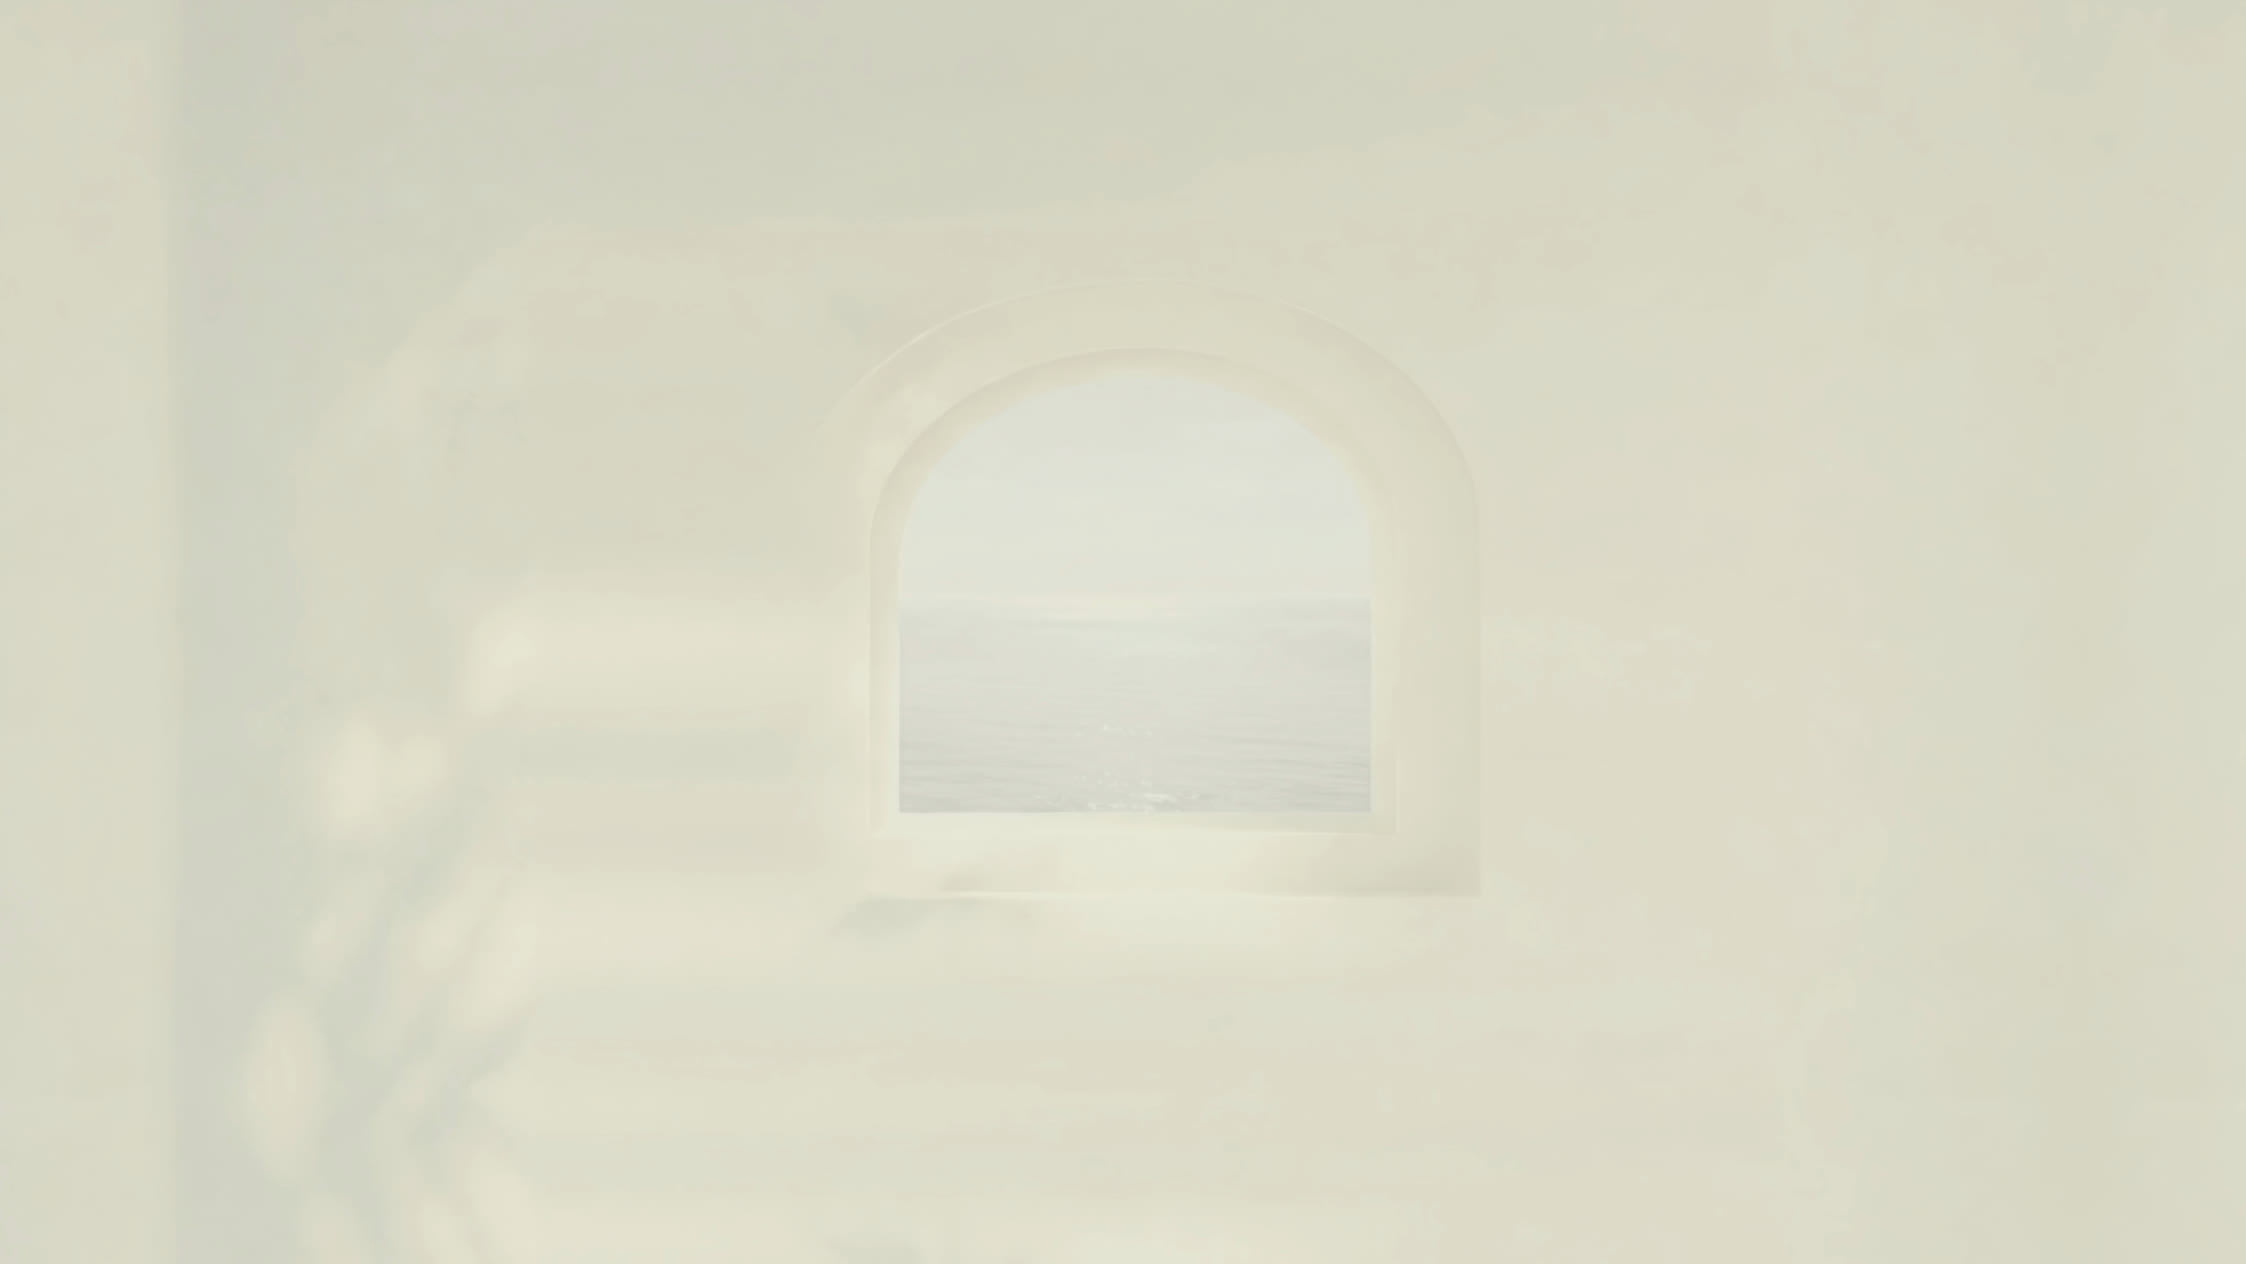
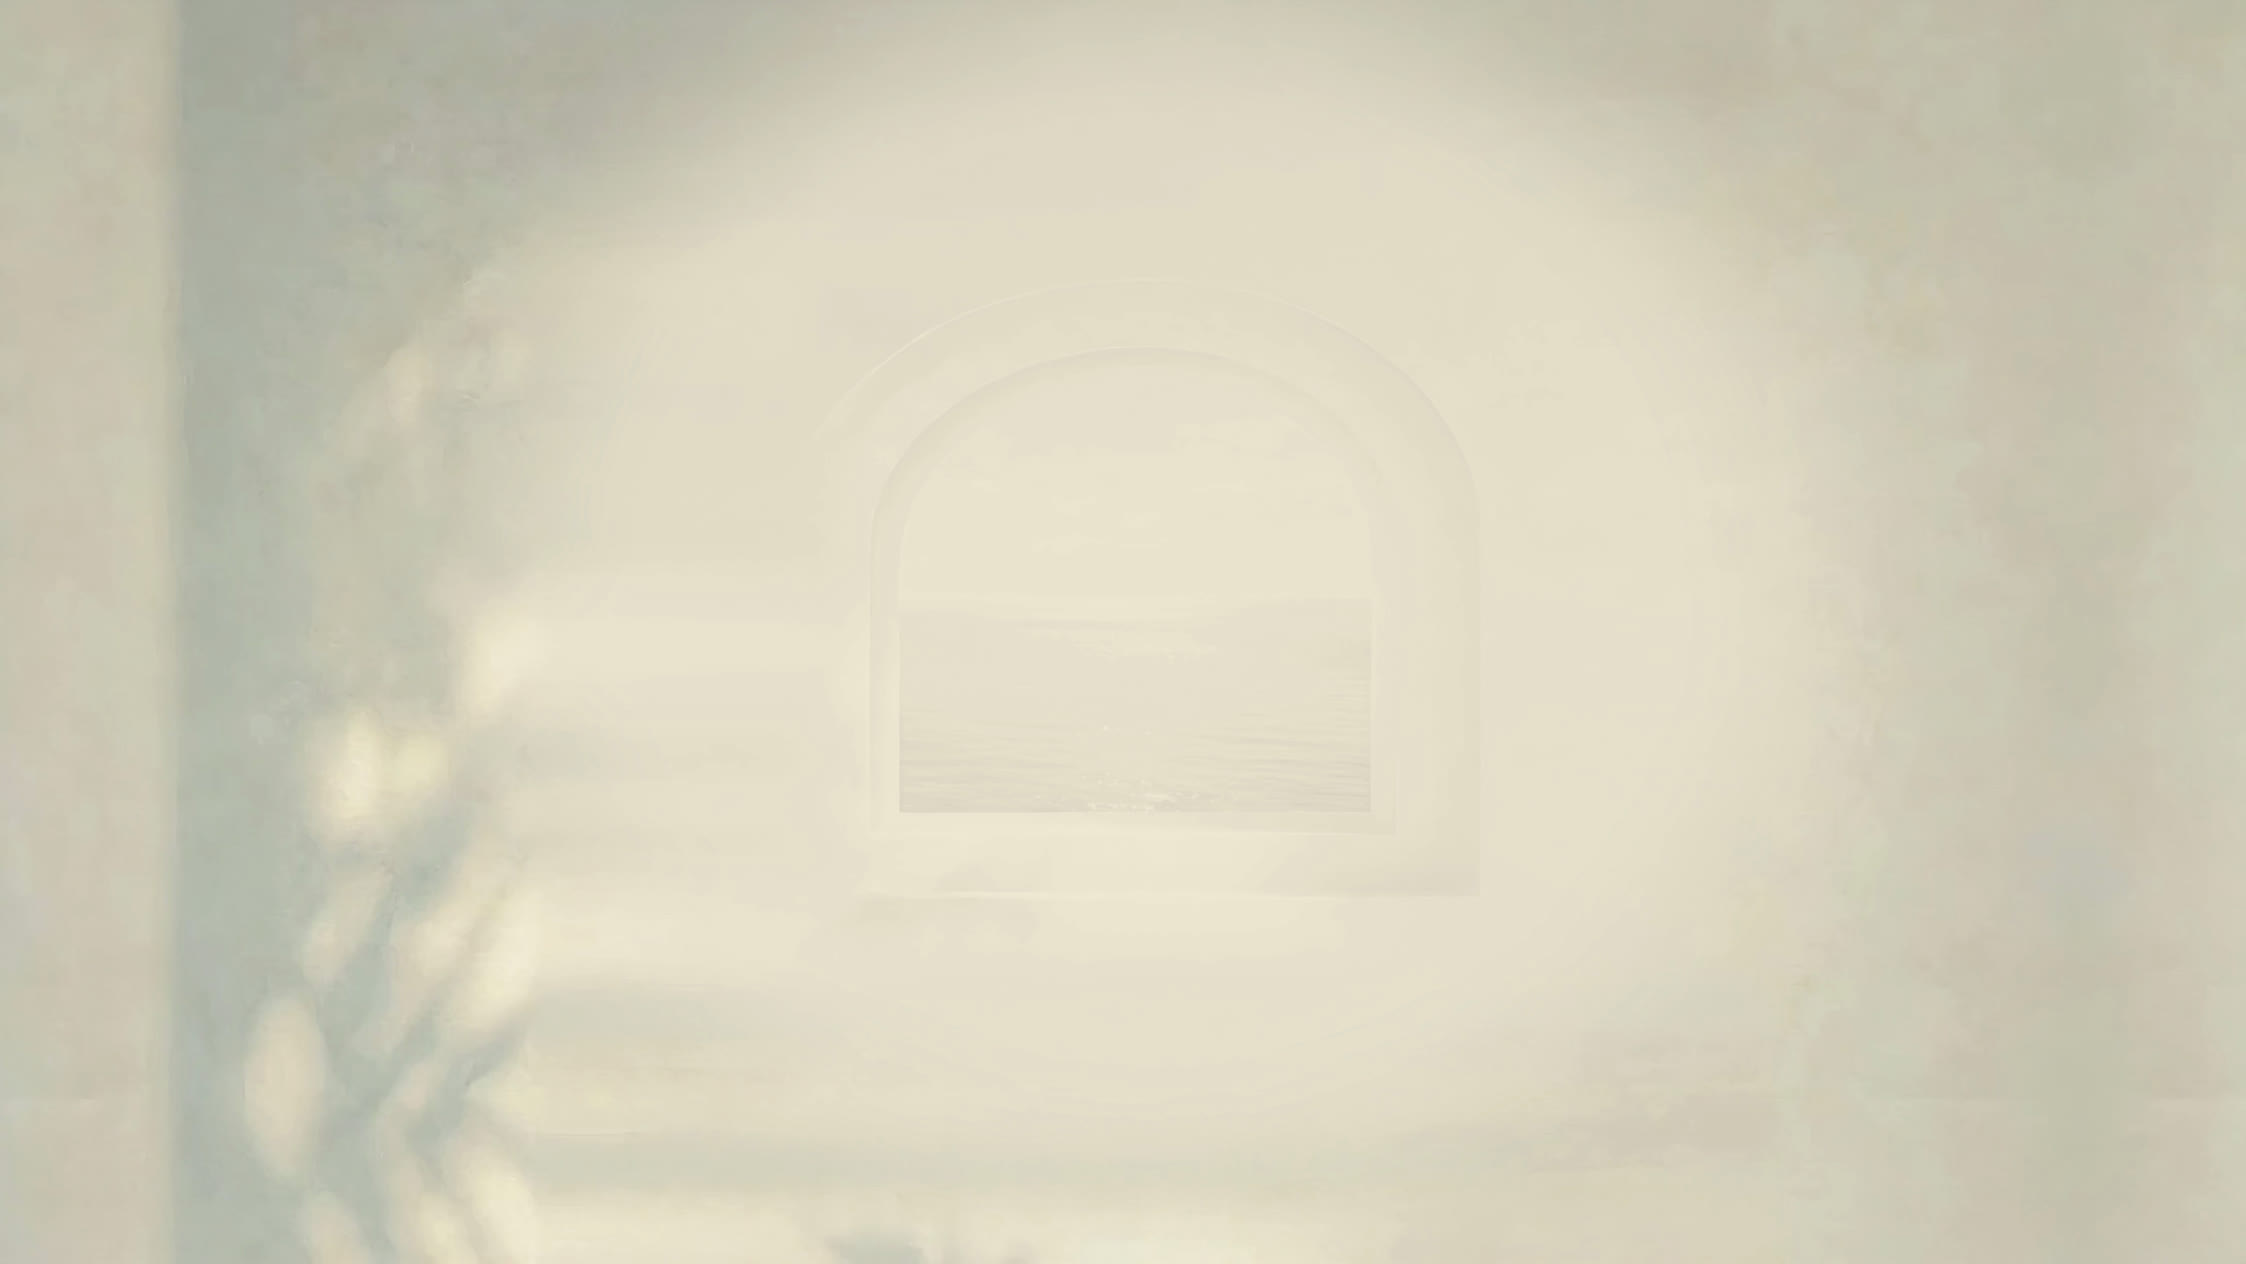
landing: fresco of the ocean — the Adam treatment, measured and applied
Founder (2026-07-09): 'in the same way that we had the faint haziness
of the Michelangelo image, I want that, but for the ocean… it looks
like a video pasted on top.'

The reference was in git history, so v7 is calibrated against it
instead of iterating adjectives: the Adam fresco lives within ~6%
luminance of the wall, in the wall's own sepia hue (H~35, S~0.10-0.14),
with the niche edge eaten by glow — a fresco IN the plaster, never a
view THROUGH an opening. That inside/through distinction is what every
global grade (v4-v6) missed, and why they all still read pasted-on.

Recipe, baked into all six assets from the ungraded sources: feathered
elliptical mask over the window zone (wall and leaf shadows stay
original — the reference has lively shadows too) → grayscale →
luminance compressed into the wall band → sepia remap → soft blur +
bloom so the frame's own light bleeds across its edges. Mobile gets
its own calibration (tighter feather, lighter blur/bloom, darker
floor) — the desktop numbers erased the smaller window entirely,
the author-for-the-visible-crop lesson again.

Verified live on both breakpoints; sea legible as sepia strokes at
page scale, arch reads as soft relief in the wall.

Changed region(s): [[0.0, 0.0, 0.374, 1.0], [0.7168, 0.0, 1.0, 0.1851], [0.7792, 0.1234, 0.8103, 0.1543]]

diff --git a/app/components/LandingPage.tsx b/app/components/LandingPage.tsx
@@ -1280,20 +1280,26 @@ export default function LandingPage({ brandClassName = '' }: Props) {
              structure; v3 restored a real sea (hazy horizon, depth
              gradient, sun glitter) but its blue was still crisp against
              the cream page; a CSS veil over v3 was rejected ("make the
-             actual colors more muted"). v4 faded the pigment; v5 added
-             full atmosphere; v6 (founder: "even more… edges just
-             blended in… almost like the memory of the ocean") is the
-             memory itself, baked into poster and loop alike: chroma
-             cut to nothing (huesaturation -0.98 c+b + global 0.8),
-             shadow lift 0.15, gblur 2.0, a bloom pass (screen-blend of
-             a sigma-25 blur at 35%) so the window's light bleeds over
-             its own edges, and a 45% wash of the wall's cream
-             (0xdcd6c2). Floor found and held: one notch further (M2,
-             in git history) dissolves the window entirely and the page
-             loses its focal object — the apparition must stay findable.
-             The fallback ladder lives in git. The lesson pair: fog fails
-             (no structure), crisp blue fails (full chroma); haze over
-             structure is the register. (Pharos lighthouse and
+             actual colors more muted"). v4-v6 muted global colour in
+             steps and were all still "pasted on top"; v7 is the settled
+             treatment, calibrated against the old Adam fresco the
+             founder named as the reference ("the faint haziness of the
+             Michelangelo image… but for the ocean"). Measured Adam
+             physics: all content within ~6% luminance of the wall, in
+             the wall's own sepia hue (H~35 S~0.10-0.14), niche edges
+             eaten by glow. Recipe (offline, baked into poster + loop
+             from the ungraded source): window zone only (feathered
+             elliptical mask; wall + leaf shadows stay original) →
+             grayscale → luminance compressed into the wall band
+             (curves 0/0.62 0.3/0.73 0.6/0.83 1/0.95 desktop; mobile
+             slightly darker floor, tighter feather, lighter blur) →
+             sepia remap (colorchannelmixer 0.99/0.955/0.875) → gblur
+             1.2 + sigma-30 bloom at 22% so the frame's light bleeds
+             over its own edges. The sea is IN the plaster now — a
+             fresco of the ocean, not a view — which is what finally
+             kills the pasted-on read. The lesson pair: fog fails (no
+             structure), crisp blue fails (full chroma); legible
+             structure in the wall's own pigment is the register. (Pharos lighthouse and
              Creation-of-Adam were cut earlier — image anti-reflex,
              design.md.) Poster is JPEG: frame zero of the loop, ~10x
              lighter than PNG for first paint. */